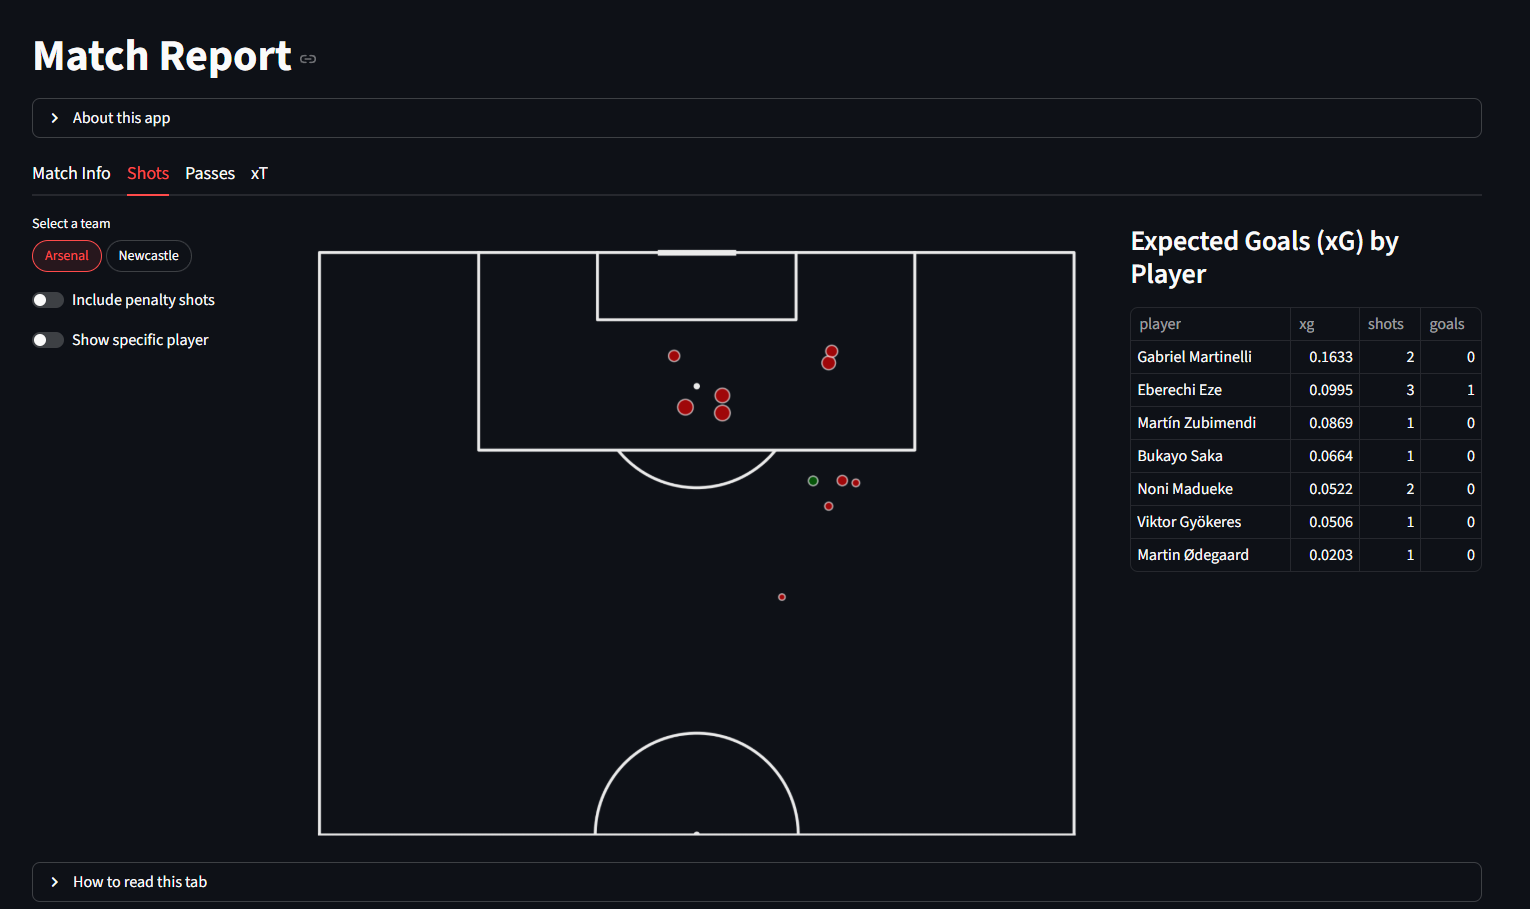
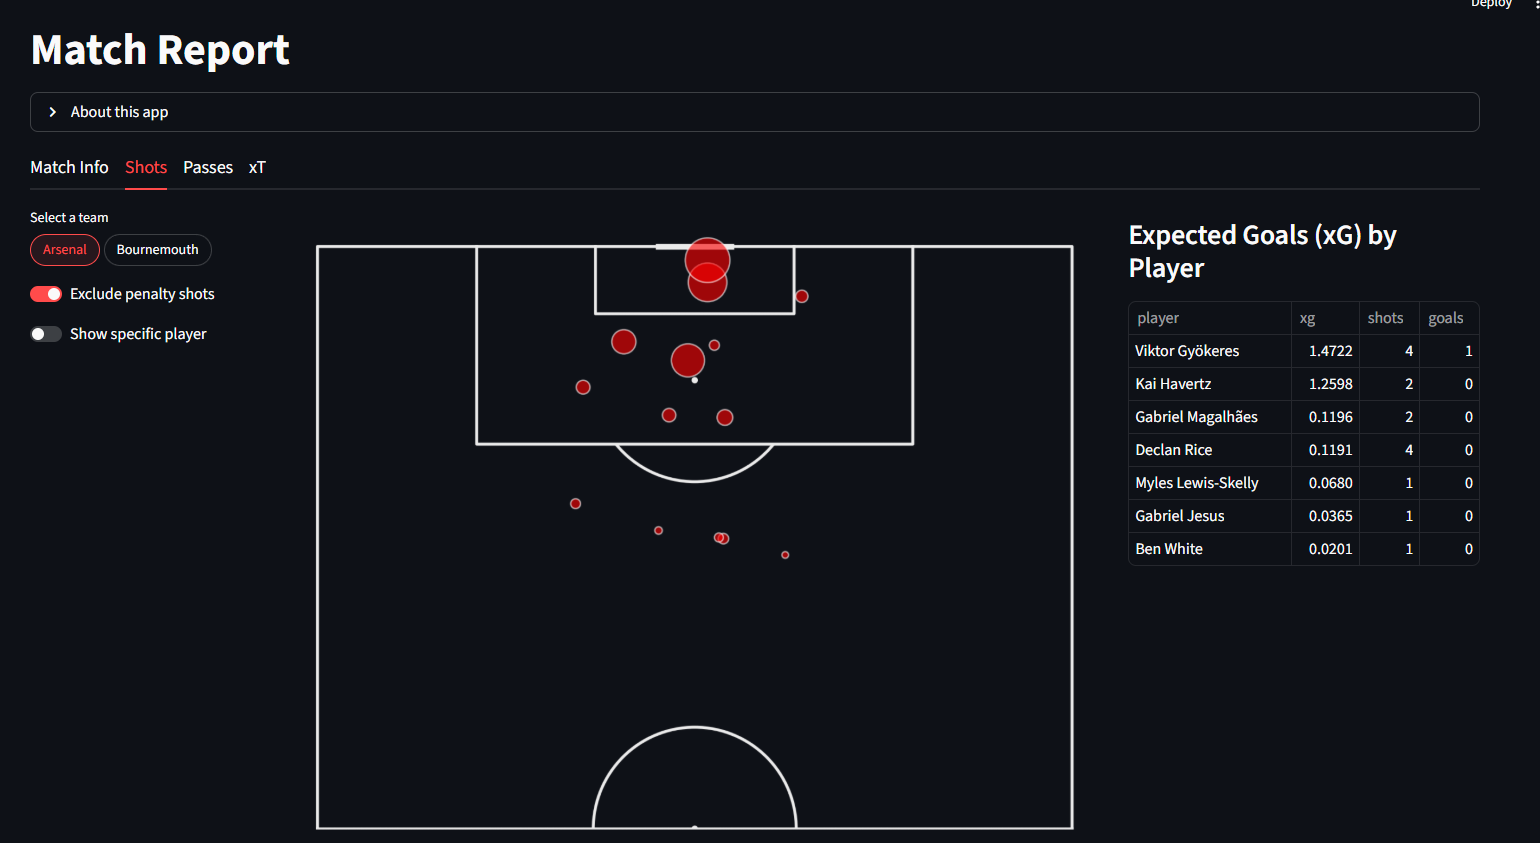
docs: update screenshots

diff --git a/components/shots.py b/components/shots.py
@@ -25,7 +25,7 @@ def render_shots_tab(game_id):
             return
         
         
-        npxg=st.toggle("Include penalty shots", value=False, key="npxg_toggle")
+        npxg=st.toggle("Exclude penalty shots", value=False, key="npxg_toggle")
 
         player_on=st.toggle("Show specific player", value=False, key="player_shots_toggle")
 
